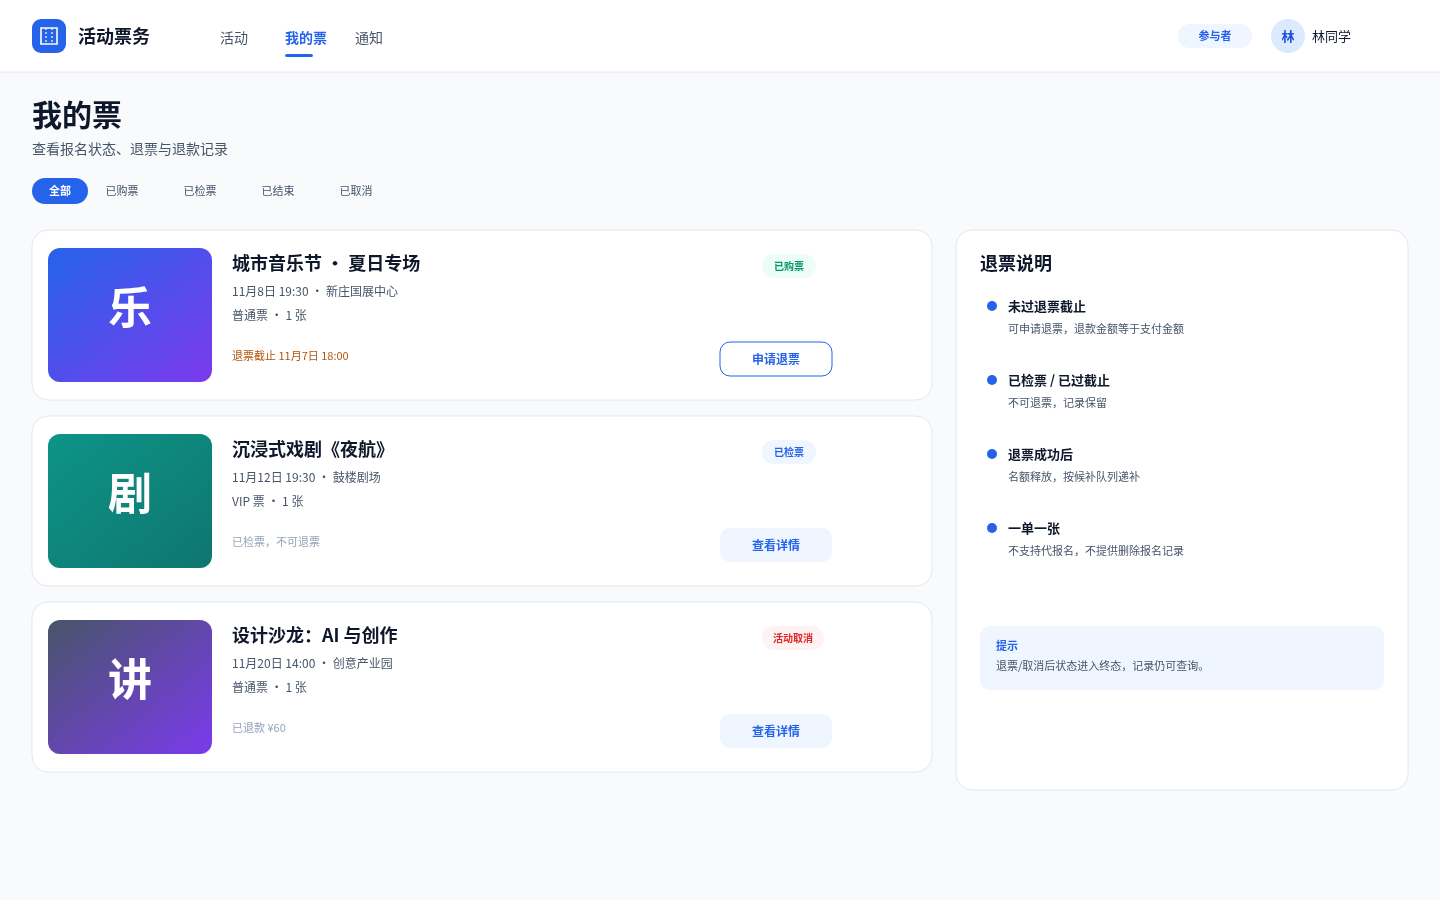
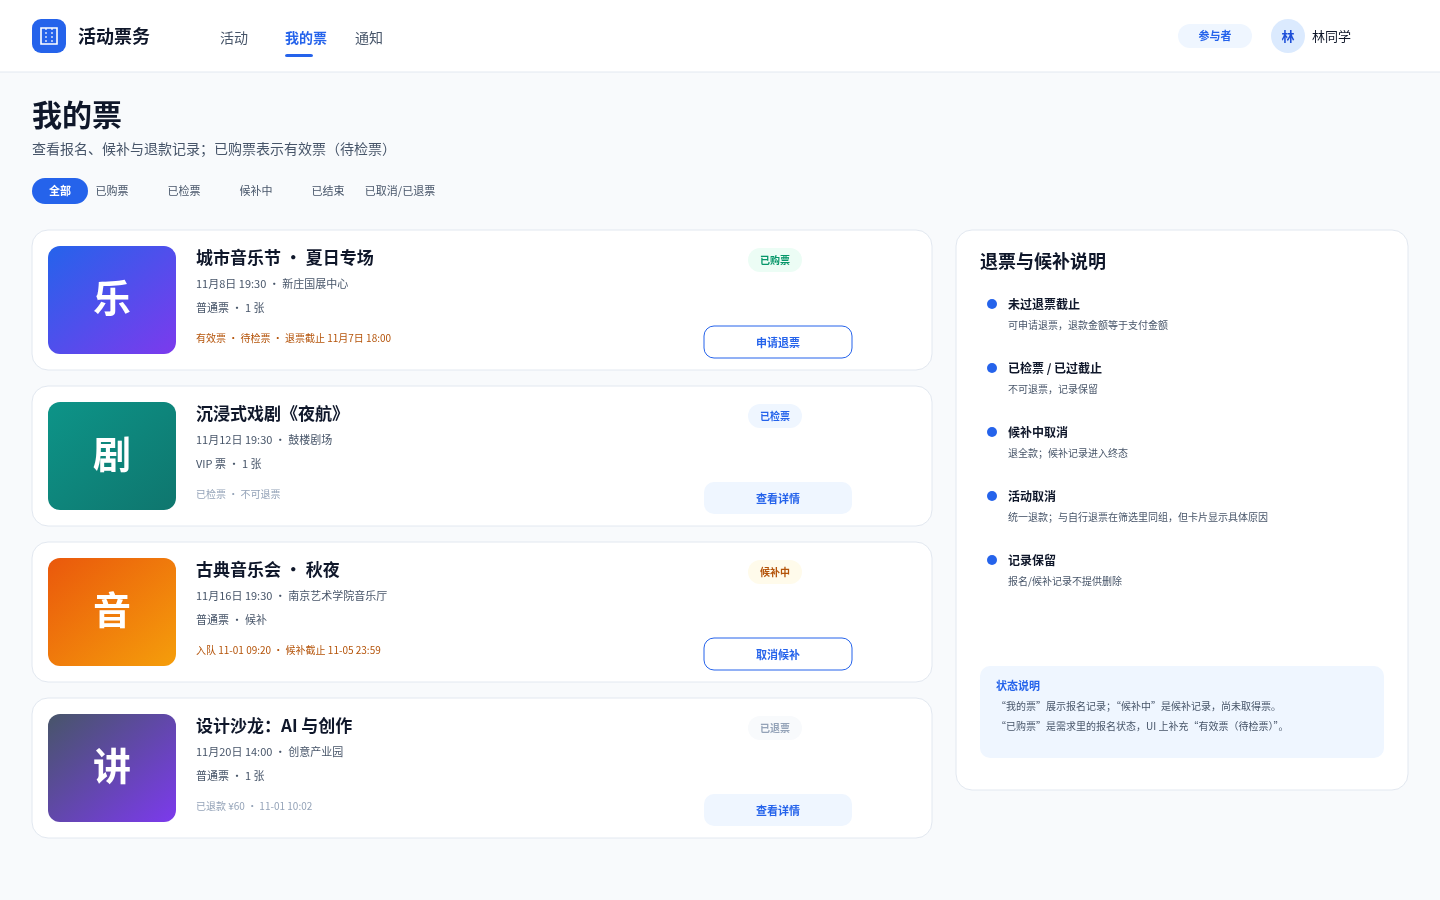
lab2: 按需求核对我的票状态
- 增加候补中、已退票展示，区分候补记录与报名记录
- “已购票”补充“有效票（待检票）”，不改变需求状态
- 筛选合并“已取消/已退票”，卡片保留具体原因
- 退票说明移除“一单一张”，该规则保留在购票页

diff --git a/lab2/UI/生成UI.py b/lab2/UI/生成UI.py
@@ -353,50 +353,50 @@ def screen_checkout():
 def screen_my_tickets():
     b = [rect(0, 0, W, H, C["bg"]), top_nav("我的票", "参与者", items=[("活动", 220), ("我的票", 285), ("通知", 355)])]
     b.append(text(32, 126, "我的票", 30, C["text"], 700))
-    b.append(text(32, 154, "查看报名状态、退票与退款记录", 14, C["sub"]))
-    for i, (label, active) in enumerate([("全部", True), ("已购票", False), ("已检票", False), ("已结束", False), ("已取消", False)]):
-        x = 32 + i * 78
+    b.append(text(32, 154, "查看报名、候补与退款记录；已购票表示有效票（待检票）", 14, C["sub"]))
+    positions = [32, 104, 176, 248, 320, 392]
+    for i, (label, active) in enumerate([("全部", True), ("已购票", False), ("已检票", False), ("候补中", False), ("已结束", False), ("已取消/已退票", False)]):
+        x = positions[i]
         if active:
             b.append(rect(x, 178, 56, 26, C["primary"], 13))
             b.append(text(x + 28, 195, label, 11, "#FFFFFF", 600, "middle"))
         else:
-            b.append(text(x + 12, 195, label, 11, C["sub"], 400, "middle"))
+            b.append(text(x + 8, 195, label, 11, C["sub"], 400, "middle"))
     cards = [
-        ("城市音乐节 · 夏日专场", "11月8日 19:30 · 新庄国展中心", "普通票 · 1 张", "已购票", C["success"], C["success_bg"], "乐", "g1", "退票截止 11月7日 18:00", True),
-        ("沉浸式戏剧《夜航》", "11月12日 19:30 · 鼓楼剧场", "VIP 票 · 1 张", "已检票", C["primary"], C["blue_tint"], "剧", "g2", "已检票，不可退票", False),
-        ("设计沙龙：AI 与创作", "11月20日 14:00 · 创意产业园", "普通票 · 1 张", "活动取消", C["danger"], C["danger_bg"], "讲", "g4", "已退款 ¥60", False),
+        ("城市音乐节 · 夏日专场", "11月8日 19:30 · 新庄国展中心", "普通票 · 1 张", "已购票", C["success"], C["success_bg"], "乐", "g1", "有效票 · 待检票 · 退票截止 11月7日 18:00", "申请退票"),
+        ("沉浸式戏剧《夜航》", "11月12日 19:30 · 鼓楼剧场", "VIP 票 · 1 张", "已检票", C["primary"], C["blue_tint"], "剧", "g2", "已检票 · 不可退票", "查看详情"),
+        ("古典音乐会 · 秋夜", "11月16日 19:30 · 南京艺术学院音乐厅", "普通票 · 候补", "候补中", C["warning"], C["warning_bg"], "音", "g3", "入队 11-01 09:20 · 候补截止 11-05 23:59", "取消候补"),
+        ("设计沙龙：AI 与创作", "11月20日 14:00 · 创意产业园", "普通票 · 1 张", "已退票", C["muted"], C["bg"], "讲", "g4", "已退款 ¥60 · 11-01 10:02", "查看详情"),
     ]
-    for i, (title, meta, ticket, status, sfg, sbg, char, gid, note, can_refund) in enumerate(cards):
-        y = 230 + i * 186
-        b.append(rect(32, y, 900, 170, C["surface"], 16, C["border"]))
-        b.append(rect(48, y + 18, 164, 134, f"url(#{gid})", 12))
-        b.append(text(130, y + 94, char, 44, "#FFFFFF", 700, "middle"))
-        b.append(text(232, y + 40, title, 18, C["text"], 700))
-        b.append(text(232, y + 66, meta, 12, C["sub"]))
-        b.append(text(232, y + 90, ticket, 12, C["sub"]))
-        b.append(badge(762, y + 24, status, sfg, sbg, 10))
-        b.append(text(232, y + 130, note, 11, C["warning"] if can_refund else C["muted"]))
-        if can_refund:
-            b.append(button(720, y + 112, 112, 34, "申请退票", "secondary", 12))
-        else:
-            b.append(button(720, y + 112, 112, 34, "查看详情", "ghost", 12))
-    # 右栏退票说明
+    for i, (title, meta, ticket, status, sfg, sbg, char, gid, note, action) in enumerate(cards):
+        y = 230 + i * 156
+        b.append(rect(32, y, 900, 140, C["surface"], 16, C["border"]))
+        b.append(rect(48, y + 16, 128, 108, f"url(#{gid})", 12))
+        b.append(text(112, y + 82, char, 38, "#FFFFFF", 700, "middle"))
+        b.append(text(196, y + 34, title, 17, C["text"], 700))
+        b.append(text(196, y + 58, meta, 11, C["sub"]))
+        b.append(text(196, y + 82, ticket, 11, C["sub"]))
+        b.append(badge(748, y + 18, status, sfg, sbg, 10))
+        b.append(text(196, y + 112, note, 10, C["warning"] if status in ("已购票", "候补中") else C["muted"]))
+        b.append(button(704, y + 96, 148, 32, action, "secondary" if action in ("申请退票", "取消候补") else "ghost", 11))
     b.append(rect(956, 230, 452, 560, C["surface"], 16, C["border"]))
-    b.append(text(980, 270, "退票说明", 18, C["text"], 700))
+    b.append(text(980, 268, "退票与候补说明", 18, C["text"], 700))
     bullets = [
         ("未过退票截止", "可申请退票，退款金额等于支付金额"),
         ("已检票 / 已过截止", "不可退票，记录保留"),
-        ("退票成功后", "名额释放，按候补队列递补"),
-        ("一单一张", "不支持代报名，不提供删除报名记录"),
+        ("候补中取消", "退全款；候补记录进入终态"),
+        ("活动取消", "统一退款；与自行退票在筛选里同组，但卡片显示具体原因"),
+        ("记录保留", "报名/候补记录不提供删除"),
     ]
     for i, (t, d) in enumerate(bullets):
-        y = 306 + i * 74
+        y = 304 + i * 64
         b.append(circle(992, y, 5, C["primary"]))
-        b.append(text(1008, y + 5, t, 13, C["text"], 600))
-        b.append(text(1008, y + 27, d, 11, C["sub"]))
-    b.append(rect(980, 626, 404, 64, C["blue_tint"], 10))
-    b.append(text(996, 650, "提示", 11, C["primary"], 700))
-    b.append(text(996, 670, "退票/取消后状态进入终态，记录仍可查询。", 11, C["sub"]))
+        b.append(text(1008, y + 5, t, 12, C["text"], 600))
+        b.append(text(1008, y + 25, d, 10, C["sub"]))
+    b.append(rect(980, 666, 404, 92, C["blue_tint"], 10))
+    b.append(text(996, 690, "状态说明", 11, C["primary"], 700))
+    b.append(text(996, 710, "“我的票”展示报名记录；“候补中”是候补记录，尚未取得票。", 10, C["sub"]))
+    b.append(text(996, 730, "“已购票”是需求里的报名状态，UI 上补充“有效票（待检票）”。", 10, C["sub"]))
     return svg_doc("".join(b), defs_gradient())
 
 
@@ -639,6 +639,7 @@ def screen_audit():
 def defs_gradient():
     return ('<linearGradient id="g1" x1="0" y1="0" x2="1" y2="1"><stop offset="0%" stop-color="#2563EB"/><stop offset="100%" stop-color="#7C3AED"/></linearGradient>'
             '<linearGradient id="g2" x1="0" y1="0" x2="1" y2="1"><stop offset="0%" stop-color="#0D9488"/><stop offset="100%" stop-color="#0F766E"/></linearGradient>'
+            '<linearGradient id="g3" x1="0" y1="0" x2="1" y2="1"><stop offset="0%" stop-color="#EA580C"/><stop offset="100%" stop-color="#F59E0B"/></linearGradient>'
             '<linearGradient id="g4" x1="0" y1="0" x2="1" y2="1"><stop offset="0%" stop-color="#475569"/><stop offset="100%" stop-color="#7C3AED"/></linearGradient>')
 
 

diff --git a/lab2/杂物/AI使用记录_完整过程.md b/lab2/杂物/AI使用记录_完整过程.md
@@ -564,3 +564,26 @@
   - 问题：仍是静态骨架，演示数据、图表、弹窗、空/加载/禁用状态需要人工在 Figma 中调整。
 - **人工修改优化后的结果**：待 Figma 调整后填写。
 - **对应 Git 提交**：`3d2c5d8`（其余六屏 UI）。
+
+---
+
+## 使用记录 29：我的票状态与退票规则人工审查
+
+- **时间**：2026-11-01
+- **使用场景**：用户审查我的票页，质疑“已购票”状态、候补中的区分、已取消/已退票的合并，以及“一单一张”放在退票说明是否合适。
+- **需求核对**：
+  - REQ-025 报名状态：已购票／已检票／正常结束／自行取消／未检票／活动取消；
+  - REQ-023 候补记录状态：候补中／已递补／自行取消／候补失败；
+  - 候补中不是报名记录，不应混同为“已买到的票”；
+  - “一单一张”是购票规则（REQ-027），应放在购票页 UI-03，不放在退票说明。
+- **AI 的处理**：
+  - 保留“已购票”系统状态，UI 上补充“有效票（待检票）”，避免和候补混淆；
+  - 新增“候补中”卡片/筛选，明确它是候补记录；
+  - 增加“已退票”展示，对应报名状态“自行取消”；筛选合并“已取消/已退票”，但卡片保留“活动取消/已退票”具体原因；
+  - 从退票说明中删除“一单一张”，该规则已在 UI-03 购票页出现；
+  - `其余六屏说明` 增加状态映射表。
+- **优点/问题**：
+  - 优点：UI 上区分“候补中（尚未取得票）”和“已买到的票”；同时不改变需求枚举；“已退票”和“活动取消”筛选同组但原因分开，避免数据语义混淆。
+  - 问题：UI 文案“已购票”仍与日常语感有差距，已用“有效票（待检票）”补充说明；如果后续要改系统枚举，需要同步需求与状态图，不建议只为 UI 改。
+- **人工修改优化后的结果**：按用户意见完成我的票页修改；其他屏未改。
+- **对应 Git 提交**：待提交（我的票状态调整）。

diff --git a/lab2/UI/其余六屏说明.md b/lab2/UI/其余六屏说明.md
@@ -8,13 +8,21 @@
 
 - **角色/模块**：参与者；报名与支付标记、退票与候补。
 - **内容**：
-  - 票列表：已购票、已检票、活动取消三种状态；
+  - 票列表：已购票（有效票·待检票）、已检票、候补中、已退票四种展示状态；
   - 已购票且未过退票截止 → “申请退票”；
   - 已检票 → “不可退票”，只保留记录；
-  - 活动取消 → 显示已退款金额；
-  - 右侧退票说明：退全款、名额释放、记录保留、一单一张。
+  - 候补中 → 这是候补记录，不是报名记录，尚未取得票；可“取消候补”；
+  - 已退票 → 对应报名状态“自行取消”，显示退款金额；
+  - 筛选“已取消/已退票”把自行取消和活动取消放在同一筛选组，但卡片徽章会显示具体原因；
+  - 右侧退票与候补说明：退全款、名额释放、记录保留；“一单一张”属于购票规则，放在 UI-03，不放在退票说明里。
+- **状态映射**：
+  - 已购票 → `RegistrationStatus.PURCHASED`，UI 上补充“有效票（待检票）”；
+  - 已检票 → `CHECKED_IN`；
+  - 已退票 → `SELF_CANCELLED`（自行取消，含管理员强制退票）；
+  - 活动取消 → `ACTIVITY_CANCELLED`（原因不同，筛选同组但徽章区分）；
+  - 候补中 → `WaitlistRecordStatus.WAITING`，属于候补记录，不是报名记录。
 - **约束**：不提供删除报名记录；退票/取消后进入终态，记录仍可查询。
-- **Figma 调整**：可增加“正常结束/未检票/自行取消”状态变体；退票确认弹窗可另做 Frame。
+- **Figma 调整**：可增加“正常结束/未检票/已递补/候补失败”状态变体；退票确认弹窗可另做 Frame。
 
 ## UI-05 组织者活动管理
 

diff --git a/lab2/UI/UI设计规范.md b/lab2/UI/UI设计规范.md
@@ -54,7 +54,7 @@
 | UI-01 | 登录/注册 | 全部 | 账号 | 登录只需手机号+密码（一个手机号只对应一个身份）；注册卡选择身份；管理员/检票员入口；无找回密码；平台预创建提示只保留一处 |
 | UI-02 | 活动浏览与详情 | 参与者 | 活动/场次、票种/容量、查询 | 售票中、即将售罄、售罄可候补；关键词/时间/状态/场次/票种组合筛选；时间最新在前 |
 | UI-03 | 报名购票与候补 | 参与者 | 报名、退票/候补 | 有票直接报名、售罄加入候补、支付标记、截止提示 |
-| UI-04 | 我的票与退票 | 参与者 | 报名、退票 | 已购票/已检票/已取消、退票截止、退款 |
+| UI-04 | 我的票与退票 | 参与者 | 报名、退票、候补 | 已购票（有效票）/已检票/候补中/已退票/活动取消；退票截止；候补中不是报名记录 |
 | UI-05 | 组织者活动管理 | 组织者 | 活动/场次、票种、审核 | 草稿/待审核/公开、可修改范围、提交审核 |
 | UI-06 | 组织者名单与统计 | 组织者 | 查询统计 | 手机号遮挡、导出、报名/出席/退票率 |
 | UI-07 | 管理员审核与处置 | 管理员 | 管理员处置、活动 | 审核队列、举报、封禁、强制退票、创建检票账号 |

diff --git a/lab2/AI使用记录.md b/lab2/AI使用记录.md
@@ -121,7 +121,7 @@
 - **输入**：设计规范、9 屏清单、角色权限、REQ-029～REQ-031、REQ-039～REQ-041、REQ-048。
 - **生成结果**：`04_我的票与退票`、`05_组织者活动管理`、`06_组织者名单与统计`、`07_管理员审核与处置`、`08_检票员工作台`、`09_审计日志与权限` 的 SVG 与 PNG 预览，以及 `其余六屏说明.md`。
 - **优点/问题**：六屏覆盖了参与者/组织者/管理员/检票员的主要任务，隐私和状态限制（手机号遮挡、检票员不看名单、统计结束后开放）都体现在界面上；但仍是静态骨架，图表、弹窗、空/加载/禁用状态和 Figma 组件化需要人工调整。
-- **人工修改**：待你在 Figma 中调整后填写。
+- **人工修改**：第三屏后的登录/活动/候补修改已记录；我的票页按 R12 调整：增加候补中、已退票展示，保留“已购票”状态并补充“有效票（待检票）”，筛选合并“已取消/已退票”但卡片保留具体原因；删除退票说明中的“一单一张”。其余屏待 Figma 调整。
 - **Git**：`3d2c5d8`（其余六屏 UI）。
 
 ---
